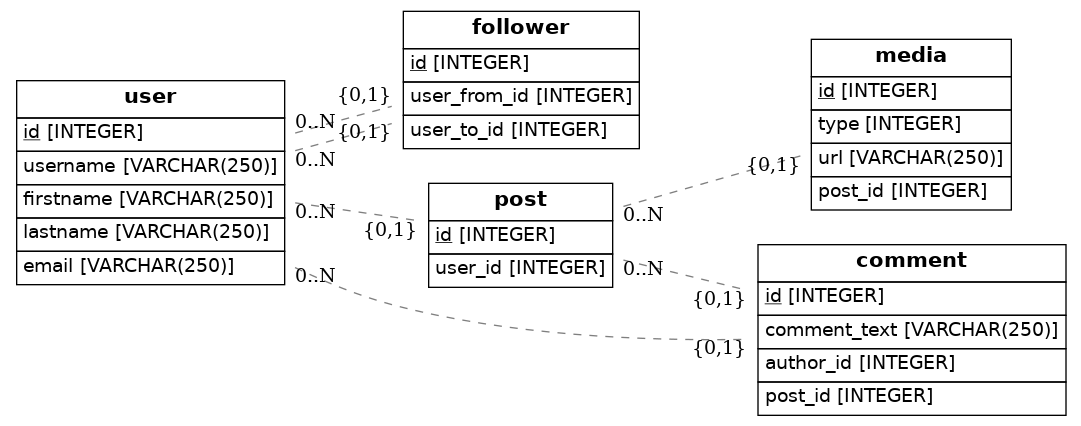
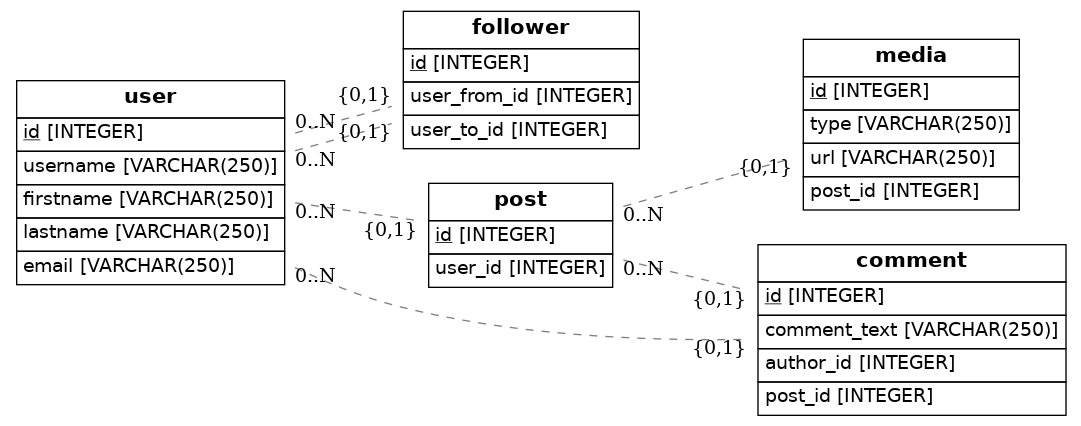
segunda actualizacion

Changed region(s): [[0.6716, 0.0915, 0.9463, 0.4883]]

diff --git a/src/models.py b/src/models.py
@@ -26,7 +26,7 @@ class User(Base):
 class Media(Base):
     __tablename__ = 'media'
     id = Column(Integer, primary_key=True)
-    type = Column(Integer)
+    type = Column(String(250))
     url = Column(String(250), nullable=False)
     post_id = Column(Integer, ForeignKey('post.id'))
     post = relationship('Post')
